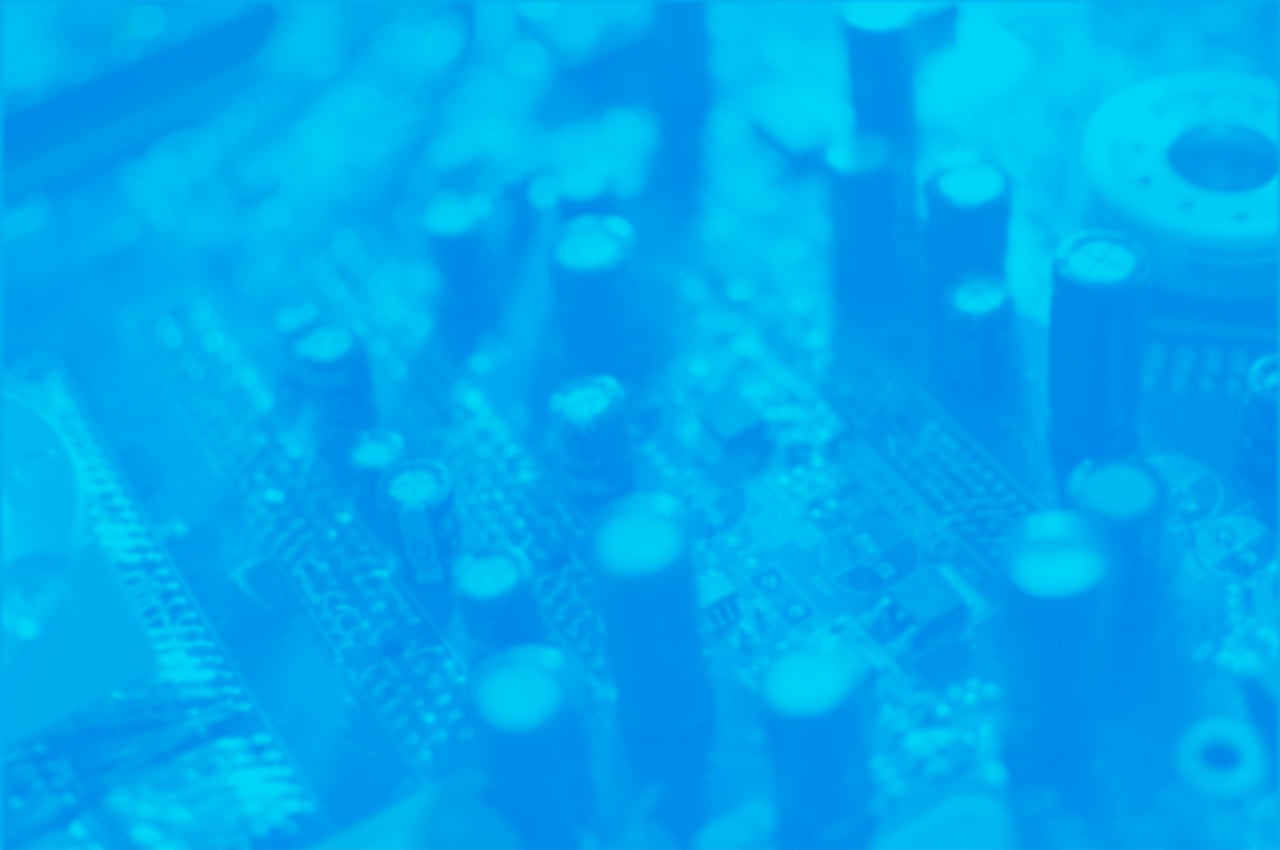
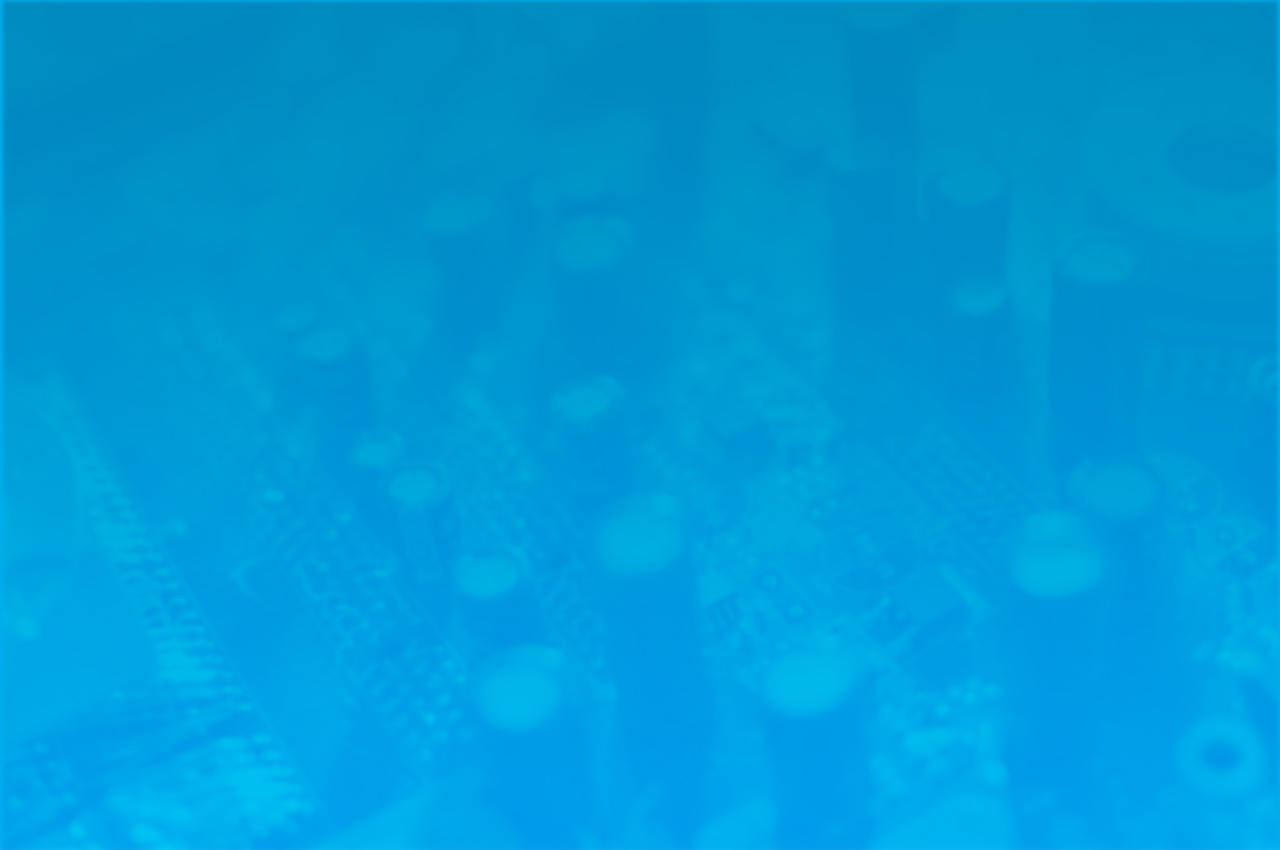
Darkened BG and Speaker Links
Made the background constrast a bit more with the main content so it
wasn't such an eye strain. Made social links under speakers open in a
new window.

diff --git a/index.html b/index.html
@@ -130,7 +130,7 @@
       </script>
 
       <script id="social" type="text/template">
-        <li class="channel"><a href="<%= m.url %>" class="<%= m.type %>"><img src="img/social/<%= m.type %>.png"/><%= m.name %></a>
+        <li class="channel"><a href="<%= m.url %>" class="<%= m.type %>" target="_blank"><img src="img/social/<%= m.type %>.png"/><%= m.name %></a>
       </script>
     </div><!-- end sheet -->
     <footer>
